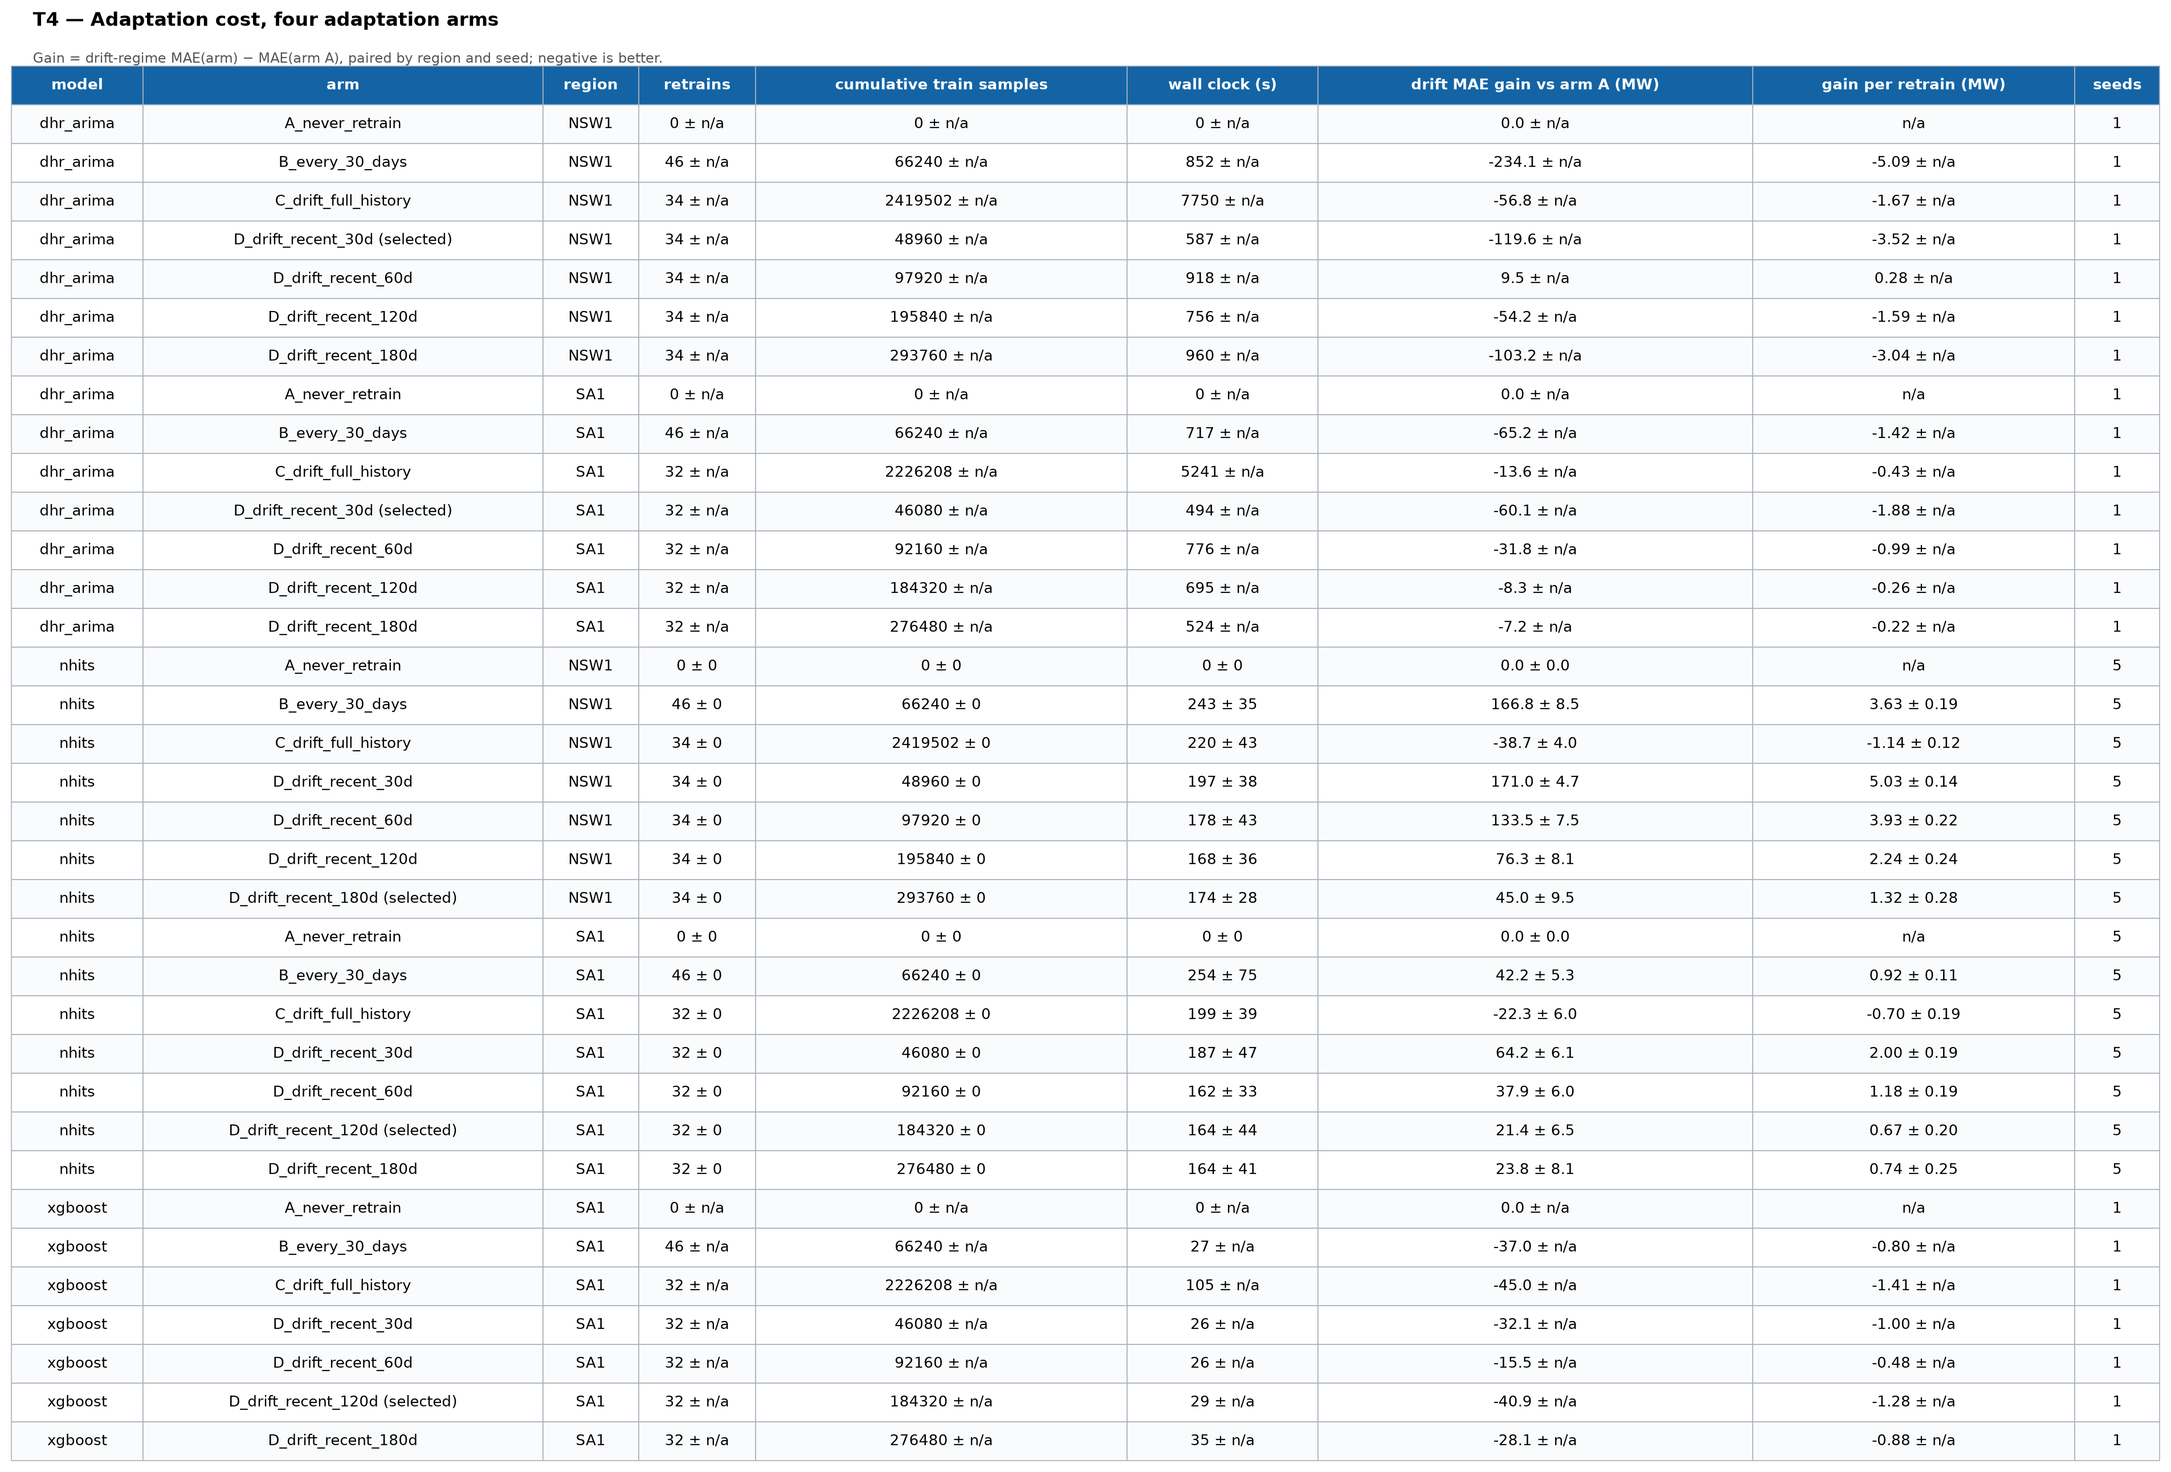
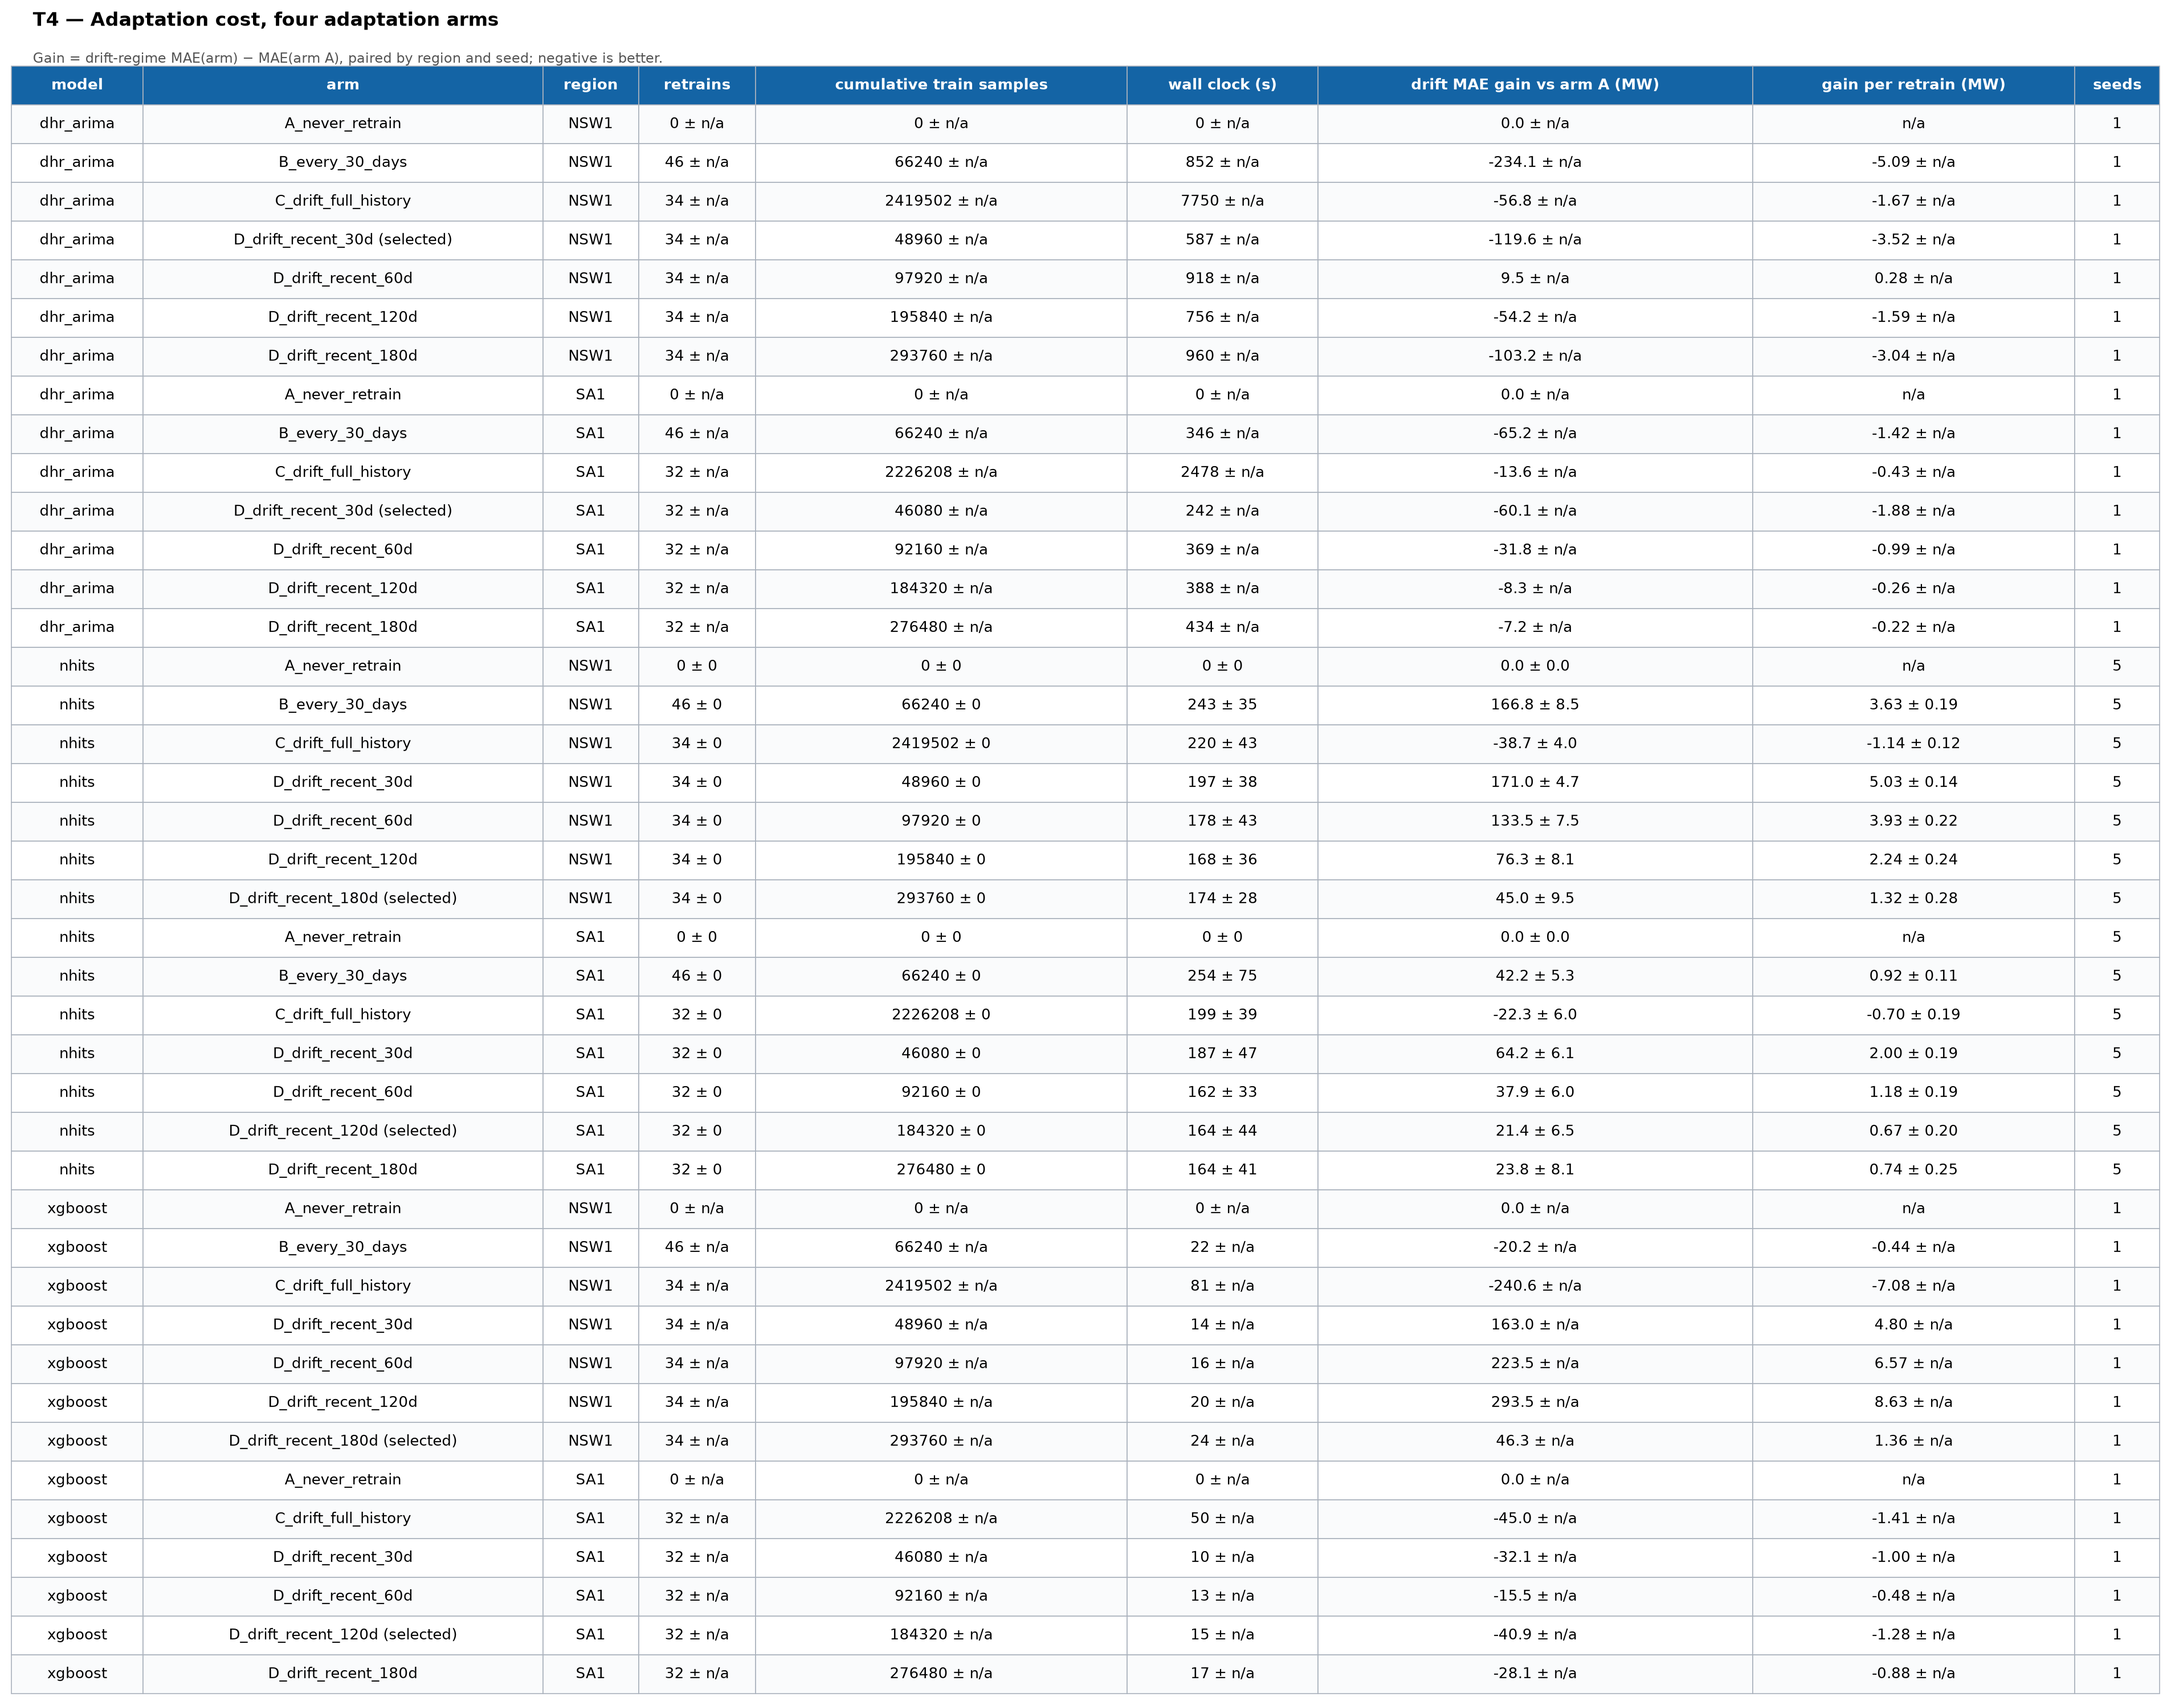
Add final T3 T4 results and adaptation evaluation support

Changed region(s): [[0.0, 0.0, 0.9995, 1.0], [0.9682, 0.5573, 0.9995, 0.5882], [0.9682, 0.4644, 0.9995, 0.4954]]

diff --git a/src/drift_lab/evaluation/evaluation.py b/src/drift_lab/evaluation/evaluation.py
@@ -267,6 +267,9 @@ Uncertainty evaluation:
     - worst 24-hour coverage
 """
 
+import math
+
+import numpy as np
 import pandas as pd
 
 # Forecast evaluation metrics
@@ -1363,3 +1366,154 @@ def calculate_regime_metrics(match_results, regime_results):
 # - mean interval width
 # - normalised interval width
 # - worst 24-hour coverage
+
+
+# Adaptation (Step 5) and interval (Step 6) metrics
+
+
+def calculate_absolute_error(y_true, y_pred):
+    """Point-wise |y_true - y_pred| for per-timestamp curve files."""
+
+    y_true = pd.Series(y_true, dtype=float).reset_index(drop=True)
+    y_pred = pd.Series(y_pred, dtype=float).reset_index(drop=True)
+
+    if len(y_true) != len(y_pred):
+        raise ValueError("y_true and y_pred must have the same length.")
+
+    if y_true.isna().any() or y_pred.isna().any():
+        raise ValueError("y_true and y_pred must not contain missing values.")
+
+    return (y_true - y_pred).abs()
+
+
+FORECAST_REGIMES = ("pre_drift", "drift", "post_drift")
+
+
+def calculate_forecast_metrics_by_regime(y_true, y_pred, regime_labels):
+    """
+    MAE and observation count per regime (T3), pooled over every timestamp
+    in the regime.
+
+    `regime_labels` must be aligned to the forecast timestamps; "pre_drift"
+    and "pre-drift" are both accepted. Returns {regime: {"mae",
+    "n_observations"}} keyed pre_drift / drift / post_drift; empty regimes
+    are omitted.
+    """
+
+    y_true = pd.Series(y_true, dtype=float).reset_index(drop=True)
+    y_pred = pd.Series(y_pred, dtype=float).reset_index(drop=True)
+    labels = pd.Series(regime_labels).reset_index(drop=True)
+
+    if not (len(y_true) == len(y_pred) == len(labels)):
+        raise ValueError("y_true, y_pred and regime_labels must have the same length.")
+
+    if labels.isna().any():
+        raise ValueError("regime_labels must not contain missing values.")
+
+    labels = labels.astype(str).str.replace("-", "_", regex=False)
+    unexpected = set(labels.unique()) - set(FORECAST_REGIMES)
+    if unexpected:
+        raise ValueError(
+            f"regime_labels contains unsupported regimes: {sorted(unexpected)}."
+        )
+
+    metrics = {}
+    for regime in FORECAST_REGIMES:
+        mask = (labels == regime).to_numpy()
+        if not mask.any():
+            continue
+        metrics[regime] = {
+            "mae": calculate_mae(y_true[mask], y_pred[mask]),
+            "n_observations": int(mask.sum()),
+        }
+    return metrics
+
+
+def calculate_adaptation_gain(arm_drift_mae, arm_a_drift_mae, n_retrains):
+    """
+    Drift-MAE difference vs Arm A (T4): arm - arm A, negative = better,
+    plus the difference per retrain (NaN with no retrains). Pair arm and
+    Arm A on region and seed first.
+    """
+
+    try:
+        arm_drift_mae = float(arm_drift_mae)
+        arm_a_drift_mae = float(arm_a_drift_mae)
+    except (TypeError, ValueError) as exc:
+        raise ValueError("MAE values must be finite, non-negative numbers.") from exc
+
+    if (
+        not math.isfinite(arm_drift_mae)
+        or not math.isfinite(arm_a_drift_mae)
+        or arm_drift_mae < 0
+        or arm_a_drift_mae < 0
+    ):
+        raise ValueError("MAE values must be finite, non-negative numbers.")
+
+    if isinstance(n_retrains, bool):
+        raise TypeError("n_retrains must be a non-negative integer.")
+
+    try:
+        retrain_count = int(n_retrains)
+    except (TypeError, ValueError, OverflowError) as exc:
+        raise ValueError("n_retrains must be a non-negative integer.") from exc
+
+    if retrain_count != n_retrains or retrain_count < 0:
+        raise ValueError("n_retrains must be a non-negative integer.")
+
+    difference = arm_drift_mae - arm_a_drift_mae
+    difference_per_retrain = (
+        difference / retrain_count if retrain_count > 0 else float("nan")
+    )
+
+    return {
+        "drift_mae_difference_vs_arm_a": float(difference),
+        "drift_mae_difference_per_retrain": float(difference_per_retrain),
+    }
+
+
+def calculate_pinball_loss(y_true, y_quantile, quantile):
+    """Mean pinball loss of one quantile forecast."""
+
+    y_true = pd.Series(y_true, dtype=float)
+    y_quantile = pd.Series(y_quantile, dtype=float)
+
+    if len(y_true) != len(y_quantile):
+        raise ValueError("y_true and y_quantile must have the same length.")
+
+    if y_true.isna().any() or y_quantile.isna().any():
+        raise ValueError("y_true and y_quantile must not contain missing values.")
+
+    if not 0 < quantile < 1:
+        raise ValueError("quantile must be strictly between 0 and 1.")
+
+    error = y_true.to_numpy() - y_quantile.to_numpy()
+    losses = quantile * error * (error >= 0) + (quantile - 1) * error * (error < 0)
+    return float(np.mean(losses))
+
+
+def calculate_interval_pinball_loss(y_true, lower, upper, alpha=0.10):
+    """
+    Pinball loss of a (1 - alpha) interval: mean of the q = alpha/2 and
+    q = 1 - alpha/2 losses (0.05 / 0.95 for a 90% interval).
+    """
+
+    y_true = pd.Series(y_true, dtype=float)
+    lower = pd.Series(lower, dtype=float)
+    upper = pd.Series(upper, dtype=float)
+
+    if len(y_true) != len(lower) or len(y_true) != len(upper):
+        raise ValueError("y_true, lower, and upper must have the same length.")
+
+    if y_true.isna().any() or lower.isna().any() or upper.isna().any():
+        raise ValueError("y_true, lower, and upper must not contain missing values.")
+
+    if not 0 < alpha < 1:
+        raise ValueError("alpha must be strictly between 0 and 1.")
+
+    if (lower.to_numpy() > upper.to_numpy()).any():
+        raise ValueError("lower bounds must not exceed upper bounds.")
+
+    lower_loss = calculate_pinball_loss(y_true, lower, alpha / 2)
+    upper_loss = calculate_pinball_loss(y_true, upper, 1 - alpha / 2)
+    return float((lower_loss + upper_loss) / 2)

diff --git a/experiments/run_harness.py b/experiments/run_harness.py
@@ -44,11 +44,15 @@ def record_run(
     period_grace: pd.Timedelta | None = None,
     samples_per_year: float | None = None,
     test_period_days: float | None = None,
+    regime_labels=None,
+    retrain_timestamps=None,
 ) -> pd.DataFrame:
     """Append one method's metrics to runs.csv and return the rows.
 
     Pass exactly one of:
       forecast  = (y_true, y_pred, index)        -> group "baseline"
+                  (group "adaptation" when `regime_labels` is also
+                  passed -- an adaptation-arm run, not a baseline)
       detection = (detected, truth, n_samples)   -> group "detection"
         `truth` a list of int indices  -> synthetic; `dataset` must be
           "synthetic_<drift_type>" and evaluation.evaluate_detections scores it.
@@ -91,6 +95,16 @@ def record_run(
     every caller sharing one fixed assumption. Omitted (the default),
     behaviour is unchanged from before this parameter existed.
 
+    `regime_labels`, forecast runs only: one documented-event regime label
+    per forecast timestamp (from `evaluation.assign_regime`), shared by
+    every adaptation arm. Logs the `regime="full"` rows plus a pooled `mae`
+    and `n_observations` row per regime (Table T3), and writes the full
+    per-timestamp curve (actual, forecast, absolute error, rolling MAE,
+    regime, arm, seed). Mutually exclusive with `changepoints`.
+
+    `retrain_timestamps`, forecast runs only: the exact retraining
+    boundaries, written to `retrains_<dataset>_<region>_<seed>.csv` (F3).
+
     `test_period_days`, AEMO documented-event matching only: when
     supplied, also logs `n_effective_detections` (accepted = Match +
     Unmatch, excluding refractory-suppressed `Ignored` rows) and
@@ -116,7 +130,14 @@ def record_run(
         "timestamp": datetime.now(UTC).isoformat(),
     }
 
-    if forecast is not None:
+    if regime_labels is not None and changepoints:
+        raise ValueError("pass at most one of changepoints= / regime_labels=")
+
+    if forecast is not None and regime_labels is not None:
+        rows = build_regime_forecast_rows(
+            dataset, seed, region, forecast, regime_labels, config.get("arm"), common
+        )
+    elif forecast is not None:
         rows = build_forecast_rows(dataset, seed, region, forecast, changepoints, common)
     else:
         rows = build_detection_rows(
@@ -129,6 +150,9 @@ def record_run(
             samples_per_year,
             test_period_days,
         )
+
+    if retrain_timestamps is not None:
+        results_io.dump_retrains(chash, dataset, region, seed, retrain_timestamps)
 
     results_io.append_runs(rows)
     return pd.DataFrame(rows, columns=results_io.RUN_COLUMNS)
@@ -163,6 +187,51 @@ def build_forecast_rows(dataset, seed, region, forecast, changepoints, common) -
         if np.isfinite(segment).any():
             rows.append(build_row(common, "rolling_mae_7d_mean", np.nanmean(segment), regime))
             rows.append(build_row(common, "rolling_mae_7d_max", np.nanmax(segment), regime))
+    return rows
+
+
+def build_regime_forecast_rows(
+    dataset, seed, region, forecast, regime_labels, arm, common
+) -> list[dict]:
+    """Forecast rows split by documented-event regime (T3), plus the full
+    per-timestamp curve file (F3)."""
+    y_true, y_pred, index = forecast
+    y_true = np.asarray(y_true, dtype=float)
+    y_pred = np.asarray(y_pred, dtype=float)
+    by_regime = evaluation.calculate_forecast_metrics_by_regime(y_true, y_pred, regime_labels)
+    labels = pd.Series(regime_labels).astype(str).str.replace("_", "-", regex=False).to_numpy()
+
+    curve = evaluation.calculate_rolling_mae(y_true, y_pred, window=ROLLING_WINDOW)
+    common = {**common, "group": "adaptation"}
+    results_io.dump_forecast_curve(
+        common["config_hash"],
+        dataset,
+        region,
+        seed,
+        pd.DataFrame(
+            {
+                "timestamp": pd.DatetimeIndex(index),
+                "actual": y_true,
+                "forecast": y_pred,
+                "absolute_error": evaluation.calculate_absolute_error(y_true, y_pred).to_numpy(),
+                "rolling_mae_7d": curve.to_numpy(),
+                "regime": labels,
+                "arm": arm,
+                "seed": seed,
+            }
+        ),
+    )
+    curve_values = curve.to_numpy()
+
+    rows = [
+        build_row(common, "mae", evaluation.calculate_mae(y_true, y_pred), "full"),
+        build_row(common, "rolling_mae_7d_mean", np.nanmean(curve_values), "full"),
+        build_row(common, "rolling_mae_7d_max", np.nanmax(curve_values), "full"),
+    ]
+    for regime, metrics in by_regime.items():
+        name = regime.replace("_", "-")  # runs.csv spelling: pre-drift / drift / post-drift
+        rows.append(build_row(common, "mae", metrics["mae"], name))
+        rows.append(build_row(common, "n_observations", metrics["n_observations"], name))
     return rows
 
 

diff --git a/src/drift_lab/evaluation/__init__.py b/src/drift_lab/evaluation/__init__.py
@@ -1,11 +1,16 @@
 from drift_lab.evaluation.evaluation import (
     assign_regime,
     build_event_windows,
+    calculate_absolute_error,
+    calculate_adaptation_gain,
     calculate_detection_delay,
     calculate_event_metrics,
     calculate_false_alarms_per_10000,
+    calculate_forecast_metrics_by_regime,
+    calculate_interval_pinball_loss,
     calculate_mae,
     calculate_missed_detections,
+    calculate_pinball_loss,
     calculate_regime_metrics,
     calculate_rolling_mae,
     evaluate_aemo_detections,
@@ -16,11 +21,16 @@ from drift_lab.evaluation.evaluation import (
 __all__ = [
     "assign_regime",
     "build_event_windows",
+    "calculate_absolute_error",
+    "calculate_adaptation_gain",
     "calculate_detection_delay",
     "calculate_event_metrics",
     "calculate_false_alarms_per_10000",
+    "calculate_forecast_metrics_by_regime",
+    "calculate_interval_pinball_loss",
     "calculate_mae",
     "calculate_missed_detections",
+    "calculate_pinball_loss",
     "calculate_regime_metrics",
     "calculate_rolling_mae",
     "evaluate_aemo_detections",
